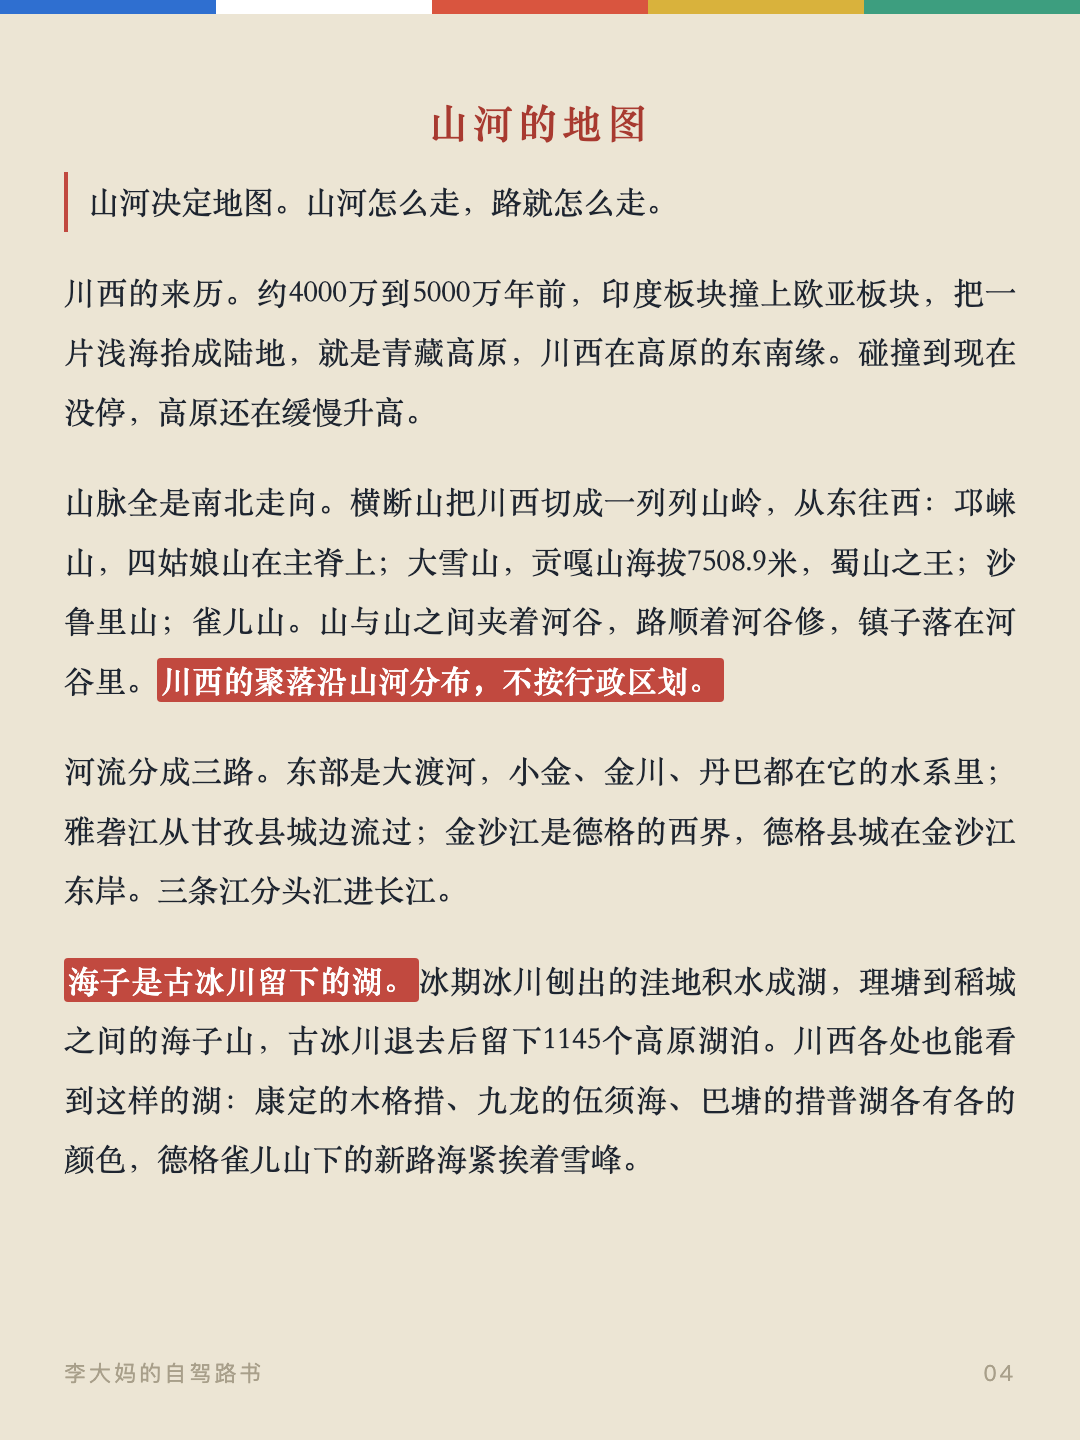
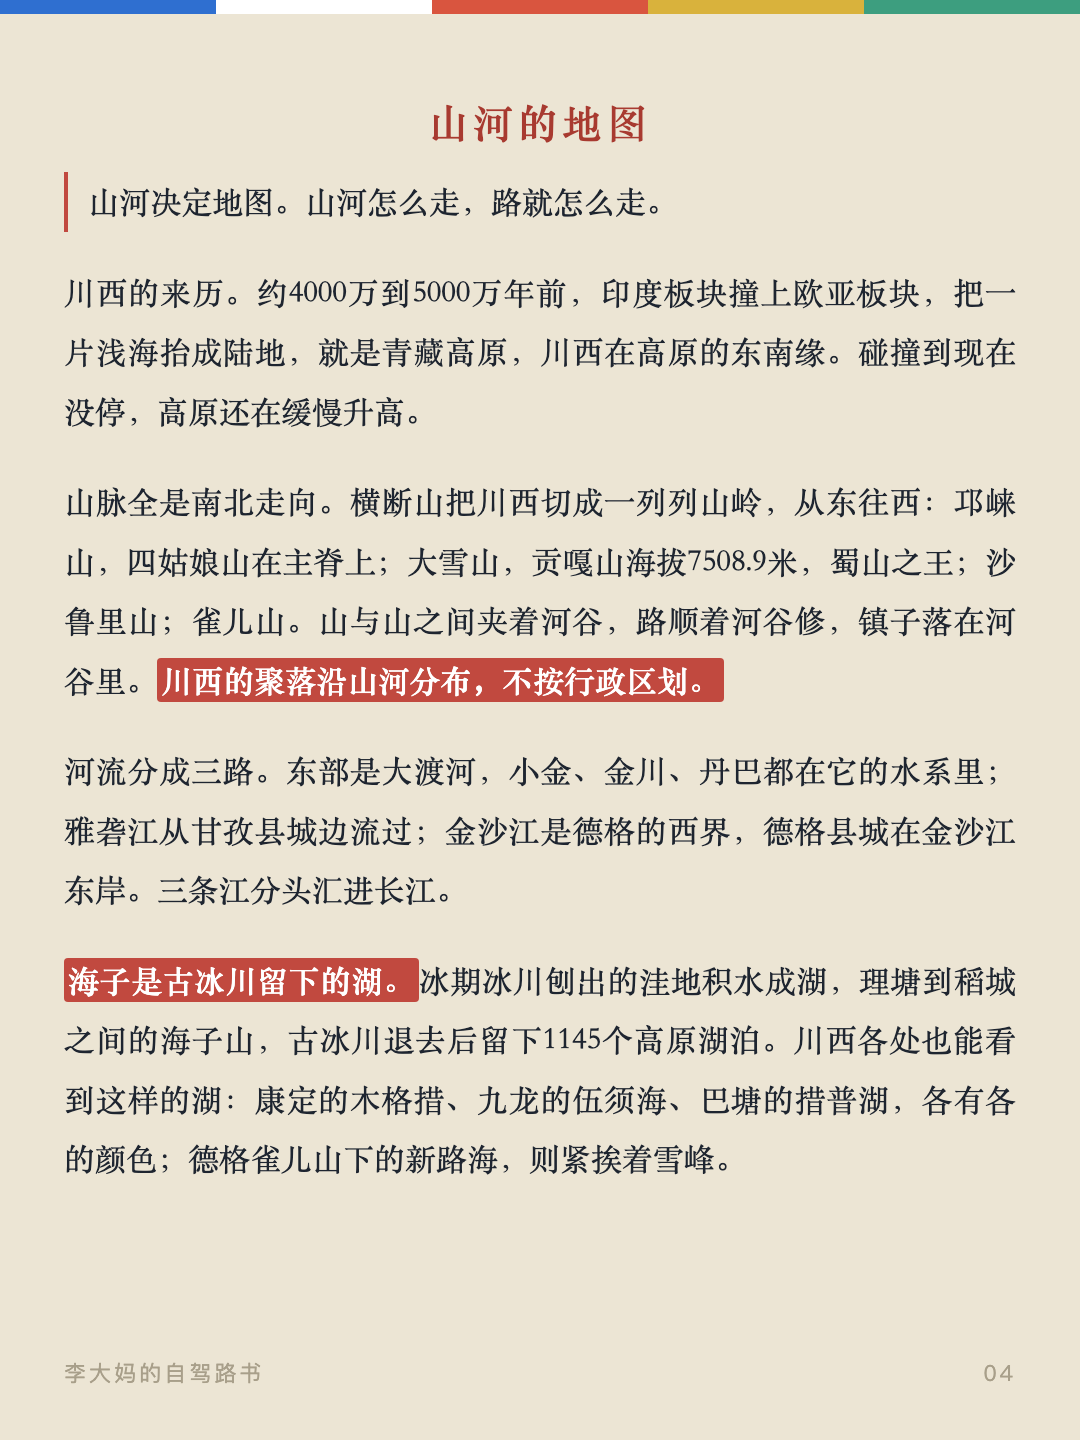
海子段举例分号并列颜色与雪峰

Changed region(s): [[0.0611, 0.7812, 0.6722, 0.8125], [0.825, 0.75, 0.9472, 0.7812]]

diff --git a/cards.html b/cards.html
@@ -129,7 +129,7 @@
 
 <div class="card" id="card3"><div class="flag" aria-hidden="true"><span style="background:var(--flag-blue)"></span><span style="background:var(--flag-white)"></span><span style="background:var(--flag-red)"></span><span style="background:var(--flag-yellow)"></span><span style="background:var(--flag-green)"></span></div><div class="card__inner"><h2>高原的秩序</h2><p class="card__lead">海拔决定秩序。</p><p>进川西之前，需要先对海拔常识有所了解。<strong>3000米是一道门槛</strong>，多数人的高反从这里开始。行程按海拔安排，不按景点安排：一天的路程控制在两三小时山路，下午留出空当看天，天气不对就提前结束行程。景点不会消失，路况和天气才是当天的变量。</p><p>窗口期。<strong>5到6月、9到10月中是全年最好走的时段</strong>。雨季6到8月以夜雨为主，白天多数能通行。冬季也能走，但救援半径长，一台车陷在无人垭口，代价远超省下的时间。</p><p>防高反。从低到高慢慢爬，头两天不在3500米以上过夜。典型信号是头痛、睡不着、没胃口，多数人两三天能适应。乙酰唑胺遵医嘱提前服用；头痛影响休息时，饭后服用布洛芬，多喝水。红景天不能降低高反发生率，只缓解症状。高原低血糖常见，头晕乏力冲杯糖水就能缓解。高原上血氧比平原低是常态，<strong>血氧掉到85%以下、人也不舒服的话，就往下撤</strong>，按需就医。</p><p>补给认准县城。<strong>进县城加满油</strong>，一离开县城就默认补给消失，当天去就得当天回，不在荒野过夜。离线地图出发前下好，<strong>自救物资备足</strong>。冬季自驾，车上常备防滑链。</p><div class="card__foot"><span>李大妈的自驾路书</span><span>03</span></div></div></div>
 
-<div class="card" id="card4"><div class="flag" aria-hidden="true"><span style="background:var(--flag-blue)"></span><span style="background:var(--flag-white)"></span><span style="background:var(--flag-red)"></span><span style="background:var(--flag-yellow)"></span><span style="background:var(--flag-green)"></span></div><div class="card__inner"><h2>山河的地图</h2><p class="card__lead">山河决定地图。山河怎么走，路就怎么走。</p><p>川西的来历。约4000万到5000万年前，印度板块撞上欧亚板块，把一片浅海抬成陆地，就是青藏高原，川西在高原的东南缘。碰撞到现在没停，高原还在缓慢升高。</p><p>山脉全是南北走向。横断山把川西切成一列列山岭，从东往西：邛崃山，四姑娘山在主脊上；大雪山，贡嘎山海拔7508.9米，蜀山之王；沙鲁里山；雀儿山。山与山之间夹着河谷，路顺着河谷修，镇子落在河谷里。<strong>川西的聚落沿山河分布，不按行政区划。</strong></p><p>河流分成三路。东部是大渡河，小金、金川、丹巴都在它的水系里；雅砻江从甘孜县城边流过；金沙江是德格的西界，德格县城在金沙江东岸。三条江分头汇进长江。</p><p><strong>海子是古冰川留下的湖。</strong>冰期冰川刨出的洼地积水成湖，理塘到稻城之间的海子山，古冰川退去后留下1145个高原湖泊。川西各处也能看到这样的湖：康定的木格措、九龙的伍须海、巴塘的措普湖各有各的颜色，德格雀儿山下的新路海紧挨着雪峰。</p><div class="card__foot"><span>李大妈的自驾路书</span><span>04</span></div></div></div>
+<div class="card" id="card4"><div class="flag" aria-hidden="true"><span style="background:var(--flag-blue)"></span><span style="background:var(--flag-white)"></span><span style="background:var(--flag-red)"></span><span style="background:var(--flag-yellow)"></span><span style="background:var(--flag-green)"></span></div><div class="card__inner"><h2>山河的地图</h2><p class="card__lead">山河决定地图。山河怎么走，路就怎么走。</p><p>川西的来历。约4000万到5000万年前，印度板块撞上欧亚板块，把一片浅海抬成陆地，就是青藏高原，川西在高原的东南缘。碰撞到现在没停，高原还在缓慢升高。</p><p>山脉全是南北走向。横断山把川西切成一列列山岭，从东往西：邛崃山，四姑娘山在主脊上；大雪山，贡嘎山海拔7508.9米，蜀山之王；沙鲁里山；雀儿山。山与山之间夹着河谷，路顺着河谷修，镇子落在河谷里。<strong>川西的聚落沿山河分布，不按行政区划。</strong></p><p>河流分成三路。东部是大渡河，小金、金川、丹巴都在它的水系里；雅砻江从甘孜县城边流过；金沙江是德格的西界，德格县城在金沙江东岸。三条江分头汇进长江。</p><p><strong>海子是古冰川留下的湖。</strong>冰期冰川刨出的洼地积水成湖，理塘到稻城之间的海子山，古冰川退去后留下1145个高原湖泊。川西各处也能看到这样的湖：康定的木格措、九龙的伍须海、巴塘的措普湖，各有各的颜色；德格雀儿山下的新路海，则紧挨着雪峰。</p><div class="card__foot"><span>李大妈的自驾路书</span><span>04</span></div></div></div>
 
 <div class="card" id="card5"><div class="flag" aria-hidden="true"><span style="background:var(--flag-blue)"></span><span style="background:var(--flag-white)"></span><span style="background:var(--flag-red)"></span><span style="background:var(--flag-yellow)"></span><span style="background:var(--flag-green)"></span></div><div class="card__inner"><p>川西地震多，因为它在鲜水河断裂带上。这条断裂带从中部纵贯，历史上强震不断。对旅行者，最实在的是<strong>路况随时可能因塌方管制</strong>；很多陡崖和河谷的走向，就是断裂带运动的痕迹。</p><p>植被随海拔分层，从山谷到垭口一路变化。2500米以下是针阔混交林；2500到3500米是云杉冷杉的针叶林，高山杜鹃夹在林里；3500到4500米是高山灌丛和高山草甸，冬虫夏草、雪茶都长在这一层；4500米以上是流石滩，雪莲贴着碎石长。<strong>同一条路翻几座山，一天就能跨过四个<span class="nowrap">植被带</span>，换到别处得开几千公里。</strong></p><p>吃的东西也按海拔分布。青稞是高原的当家作物，炒熟磨成糌粑，拌上酥油茶捏成团，是藏人的日常主食；酥油茶用砖茶和酥油熬，热量高、解渴御寒，当地有<strong>“宁可三日无肉，不可一日无茶”</strong>的说法。牦牛在海拔3500米以上放养，肉干、火锅、炖汤都常见；血肠是待客的上等菜，牛血或羊血和肉丁灌进小肠煮熟。松茸这类菌子长在森林里，集中在金沙江、雅砻江、大渡河上中游的高山峡谷，夏秋雨后出得多，炖鸡、涮锅都常吃。这些不用刻意找，路边饭馆的菜单上就有。</p><div class="card__foot"><span>李大妈的自驾路书</span><span>05</span></div></div></div>
 

diff --git a/index.html b/index.html
@@ -236,7 +236,7 @@
       <p>川西的来历。约4000万到5000万年前，印度板块撞上欧亚板块，把一片浅海抬成陆地，就是青藏高原，川西在高原的东南缘。碰撞到现在没停，高原还在缓慢升高。</p>
       <p>山脉全是南北走向。横断山把川西切成一列列山岭，从东往西：邛崃山，四姑娘山在主脊上；大雪山，贡嘎山海拔7508.9米，蜀山之王；沙鲁里山；雀儿山。山与山之间夹着河谷，路顺着河谷修，镇子落在河谷里。<strong>川西的聚落沿山河分布，不按行政区划。</strong></p>
       <p>河流分成三路。东部是大渡河，小金、金川、丹巴都在它的水系里；雅砻江从甘孜县城边流过；金沙江是德格的西界，德格县城在金沙江东岸。三条江分头汇进长江。</p>
-      <p><strong>海子是古冰川留下的湖。</strong>冰期冰川刨出的洼地积水成湖，理塘到稻城之间的海子山，古冰川退去后留下1145个高原湖泊。川西各处也能看到这样的湖：康定的木格措、九龙的伍须海、巴塘的措普湖各有各的颜色，德格雀儿山下的新路海紧挨着雪峰。</p>
+      <p><strong>海子是古冰川留下的湖。</strong>冰期冰川刨出的洼地积水成湖，理塘到稻城之间的海子山，古冰川退去后留下1145个高原湖泊。川西各处也能看到这样的湖：康定的木格措、九龙的伍须海、巴塘的措普湖，各有各的颜色；德格雀儿山下的新路海，则紧挨着雪峰。</p>
       <p>川西地震多，因为它在鲜水河断裂带上。这条断裂带从中部纵贯，历史上强震不断。对旅行者，最实在的是<strong>路况随时可能因塌方管制</strong>；很多陡崖和河谷的走向，就是断裂带运动的痕迹。</p>
       <p>植被随海拔分层，从山谷到垭口一路变化。2500米以下是针阔混交林；2500到3500米是云杉冷杉的针叶林，高山杜鹃夹在林里；3500到4500米是高山灌丛和高山草甸，冬虫夏草、雪茶都长在这一层；4500米以上是流石滩，雪莲贴着碎石长。<strong>同一条路翻几座山，一天就能跨过四个植被带，换到别处得开几千公里。</strong>。</p>
       <p>吃的东西也按海拔分布。青稞是高原的当家作物，炒熟磨成糌粑，拌上酥油茶捏成团，是藏人的日常主食；酥油茶用砖茶和酥油熬，热量高、解渴御寒，当地有<strong>“宁可三日无肉，不可一日无茶”</strong>的说法。牦牛在海拔3500米以上放养，肉干、火锅、炖汤都常见；血肠是待客的上等菜，牛血或羊血和肉丁灌进小肠煮熟。松茸这类菌子长在森林里，集中在金沙江、雅砻江、大渡河上中游的高山峡谷，夏秋雨后出得多，炖鸡、涮锅都常吃。这些不用刻意找，路边饭馆的菜单上就有。</p>

diff --git a/gen_cards.py b/gen_cards.py
@@ -43,7 +43,7 @@ BODY_STREAM = [
   ('p', '川西的来历。约4000万到5000万年前，印度板块撞上欧亚板块，把一片浅海抬成陆地，就是青藏高原，川西在高原的东南缘。碰撞到现在没停，高原还在缓慢升高。'),
   ('p', '山脉全是南北走向。横断山把川西切成一列列山岭，从东往西：邛崃山，四姑娘山在主脊上；大雪山，贡嘎山海拔7508.9米，蜀山之王；沙鲁里山；雀儿山。山与山之间夹着河谷，路顺着河谷修，镇子落在河谷里。<strong>川西的聚落沿山河分布，不按行政区划。</strong>'),
   ('p', '河流分成三路。东部是大渡河，小金、金川、丹巴都在它的水系里；雅砻江从甘孜县城边流过；金沙江是德格的西界，德格县城在金沙江东岸。三条江分头汇进长江。'),
-  ('p', '<strong>海子是古冰川留下的湖。</strong>冰期冰川刨出的洼地积水成湖，理塘到稻城之间的海子山，古冰川退去后留下1145个高原湖泊。川西各处也能看到这样的湖：康定的木格措、九龙的伍须海、巴塘的措普湖各有各的颜色，德格雀儿山下的新路海紧挨着雪峰。'),
+  ('p', '<strong>海子是古冰川留下的湖。</strong>冰期冰川刨出的洼地积水成湖，理塘到稻城之间的海子山，古冰川退去后留下1145个高原湖泊。川西各处也能看到这样的湖：康定的木格措、九龙的伍须海、巴塘的措普湖，各有各的颜色；德格雀儿山下的新路海，则紧挨着雪峰。'),
   ('p', '川西地震多，因为它在鲜水河断裂带上。这条断裂带从中部纵贯，历史上强震不断。对旅行者，最实在的是<strong>路况随时可能因塌方管制</strong>；很多陡崖和河谷的走向，就是断裂带运动的痕迹。'),
   ('p', '植被随海拔分层，从山谷到垭口一路变化。2500米以下是针阔混交林；2500到3500米是云杉冷杉的针叶林，高山杜鹃夹在林里；3500到4500米是高山灌丛和高山草甸，冬虫夏草、雪茶都长在这一层；4500米以上是流石滩，雪莲贴着碎石长。<strong>同一条路翻几座山，一天就能跨过四个<span class="nowrap">植被带</span>，换到别处得开几千公里。</strong>'),
   ('p', '吃的东西也按海拔分布。青稞是高原的当家作物，炒熟磨成糌粑，拌上酥油茶捏成团，是藏人的日常主食；酥油茶用砖茶和酥油熬，热量高、解渴御寒，当地有<strong>“宁可三日无肉，不可一日无茶”</strong>的说法。牦牛在海拔3500米以上放养，肉干、火锅、炖汤都常见；血肠是待客的上等菜，牛血或羊血和肉丁灌进小肠煮熟。松茸这类菌子长在森林里，集中在金沙江、雅砻江、大渡河上中游的高山峡谷，夏秋雨后出得多，炖鸡、涮锅都常吃。这些不用刻意找，路边饭馆的菜单上就有。'),
